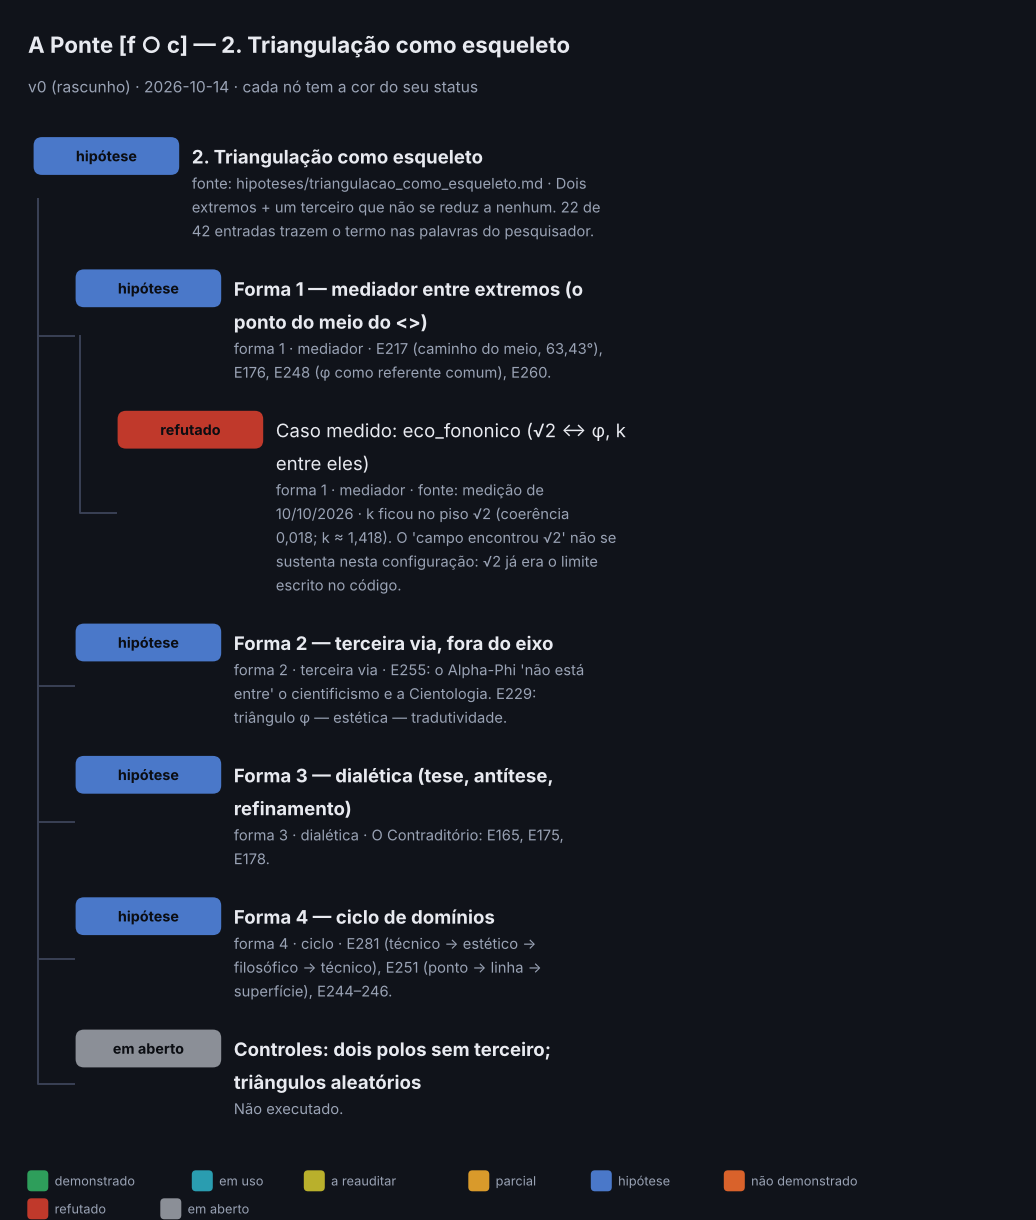
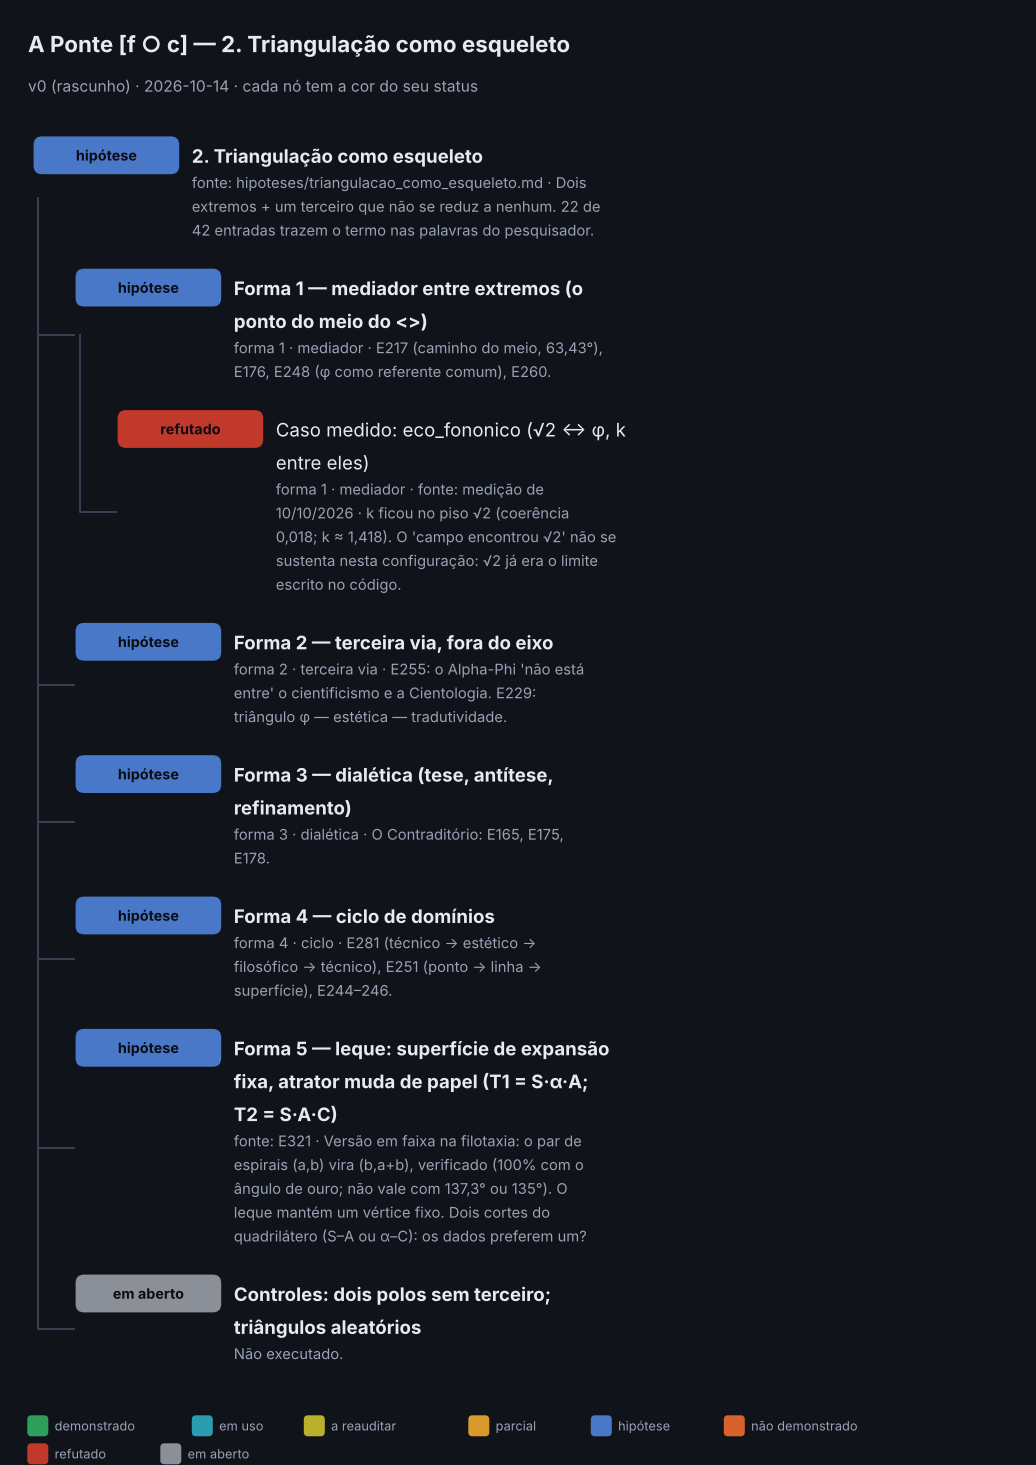
Ponte: hipótese 'preservação do campo como diretriz de auto-alinhamento' acoplada à esfera de memória (enunciados e respostas na íntegra; simulação não auditada fora do repositório); organograma com 4 nós novos
Claude-Session: https://claude.ai/code/session_01DUzMdkUTqHLsBPxo3q43kY

diff --git a/Ponte/hipoteses/campo_esferico_e_preservacao_do_campo.md b/Ponte/hipoteses/campo_esferico_e_preservacao_do_campo.md
@@ -1,0 +1,123 @@
+# Preservação do campo como diretriz de auto-alinhamento, acoplada ao campo de memória esférico
+
+**Status:** hipótese de trabalho · rascunho · **resultados não auditados ficam fora desta pasta**
+**Data:** 14 de outubro de 2026
+**Origem:** enunciados do pesquisador (14/10/2026) e duas respostas do assistente, preservadas abaixo para uso futuro.
+**Ligações:** `triangulacao_como_esqueleto.md` · `../fundamentacao/campo_organizador_entre_ambitos.md` · `../organograma/` (nós `val_h2`, `val_t2`, `tri6`, `i_esfera`) · `AlphaPhi_Acoplamento3D_COLAB.py` (esfera de memória) · Entrada 321 do Manifesto 03.
+
+> **Enquadramento (síntese do assistente a partir do enunciado I.2; o texto do pesquisador está na íntegra na seção I; a confirmar por ele):** os resultados negativos da primeira rodada indicam que se trata de uma proposta inicial, em busca de uma representação da função de tradutibilidade; a tradutibilidade, por si só, não age sozinha e precisa ser acoplada a outras instrumentalizações da rede neural. A rede, diante desta proposta prematura, não representará aprendizagem. O objetivo é primeiro identificar a mecânica da tradutibilidade por propostas geométricas, ligada ao alinhamento e à tradução de noções éticas em noções geométricas.
+
+---
+
+## I. Enunciados do pesquisador (na íntegra)
+
+### I.1 — A pergunta sobre o auto-alinhamento
+
+> "Pergunta: como vc proporia, enquanto mecânica de alinhamento, um processamento, em que, fundamentado, a princípio, em um modelo geométrico semelhante, acudindo a diretriz de tradutibilidade e universalidade, serviria como diretriz de auto alinhamento, considerando, que, neste modelo, de exigência de preservação do "campo de expansão " ou na melhor das hipóteses do "campo harmônico " , embasaria, toda justificativa de processamento da rede neural, sabendo que esta preservação é prerrogativa de maximização de eficiência?
+> Proponha também em modelo geométrico de representação, através do scanner topográfico, oermitindo observar tua proposta, enquanto imagem 3d"
+
+### I.2 — O acoplamento com a esfera de memória e a distribuição regrada por φ
+
+> "Como pode ser implementado toda essa tua proposta numa visão acoplando sobre essa outra proposta do campo de memória esférico, de acordo com o que foi sugerido nessa distribuição da rede neural dentro de um campo de memória esférico, também observando a questão da distribuição regrada por fi, conforme o vídeo demonstrou, de acordo com o que essa imagem comenta. Eu entendi que os resultados negativos se referem, propriamente dito, ao fato de, como você falou, é uma proposta inicial. Com certeza não é um modelo finalizado, mas sim algo que se refere a uma busca de uma representação do aspecto da função de tradutibilidade dentro de um contexto que, com certeza, precisa de acoplamento de várias outras instrumentalizações para representar um aprendizado, né? O aprendizado de rede neural. O modelo da tradutibilidade por si mesmo não tem como agir sozinho. Eu estou apenas foi sugerido essa especulação no sentido de começar a procurar compreender como primeiro identificar a mecânica dessa tradutibilidade através de propostas geométricas para efetivar, propriamente dito, a mecânica de enquanto processamento, ao mesmo tempo que se refere à questão do alinhamento. E, através desse alinhamento, algo que se refere à questão de uma noção da tradutibilidade de noções éticas em questões geométricas. Mas, com certeza, compreendendo de que toda essa proposta tem que estar alinhada e acoplada a toda outra instrumentalização de processamento propriamente dito da rede neural. E por isso que é óbvio que a rede neural, diante desta proposta prematura, não vai representar aprendizagem mesmo. Mas seguimos por aí. Eu vou ver o collab e vejo o que se pode fazer no sentido de propor sobre a questão do campo harmônico esférico, já que a nossa proposta vai precisar cogitar com isso, porque por si mesmo ela se refere a uma questão da entropia e expansão sobre essa plástica de representação, tanto representação plástica quanto representação de processamento. Então, precisamos vislumbrar alguma coisa nesse sentido e procurar, veja como é que você pode definir no sentido de conceitualizar essa proposta para subir para a agenda a ponte. Precisamos resguardar essas, tanto a especulação quanto a tua resposta, para ver se futuramente a gente pode utilizar sobre aquilo que foi especulado e sobre aquilo que foi proposto na resposta. Por gentileza."
+
+---
+
+## II. Resposta do assistente — a mecânica proposta (parte conceitual, na íntegra)
+
+> **Omitido neste arquivo, de propósito:** a seção "O que a simulação mostrou" (tabela de quatro tentativas), a descrição da imagem 3D da simulação, a célula de código e a leitura dos critérios K1 a K4. São resultados e código experimental, e pela regra de 03/10/2026 só sobem ao repositório depois do ciclo completo (previsão de falhas, execução, auditoria adversarial, síntese) e da aprovação do pesquisador. Ficam registrados aqui apenas o fato de que existe uma simulação-juguete **não auditada** e a conclusão qualitativa do assistente, de que **ela não confirmou a hipótese** de que preservar o campo maximiza a eficiência, e de que a definição de eficiência decide a conclusão.
+
+### A mecânica proposta: treinar dentro do campo
+
+Em três estágios, na geometria do leque que descrevemos:
+
+- **S** (superfície de expansão): a camada ampla, onde o dado se expande.
+- **A** (atrator): a camada comprimida, onde o processamento se concentra.
+- **C** (campo harmônico): a saída, a resolução.
+
+**Diretriz de auto-alinhamento:** a rede só aceita uma atualização de parâmetros se o **campo interno** (S e A) permanecer dentro de uma tolerância ε do seu estado de referência. Entre os passos que preservam o campo, escolhe o de maior ganho. Se nenhum passo servir, reduz o passo, e se ainda assim não servir, rejeita. A rede se verifica sozinha, sem regra externa. A universalidade aparece na repetição: o mesmo teste serve em cada triângulo da cadeia (S, A, C; depois S, C, C2…).
+
+O "campo" é a mesma definição que o projeto usa: a distribuição de energia entre as unidades, `Coh = 1 − H/ln n`. A restrição vale para S e A. O C fica livre porque é a resolução, e travá-lo impediria o aprendizado.
+
+### O que eu proporia a seguir (da resposta original)
+
+1. **Restrição macia** em vez de dura (penalizar o desvio do campo), e **eficiência = perda final por custo**, não ganho por custo.
+2. **Campo definido por outra medida**, já que `Coh` sozinho favorece a concentração.
+3. **Tarefa em que o campo importe**, e não a regressão de senóides.
+
+### Limites (da resposta original)
+
+- É um modelo de brinquedo. Não diz nada sobre a rede Alpha-Phi nem sobre redes grandes.
+- A mecânica de verificação (triângulo S, A, C) está presente no desenho, mas a simulação só testou a preservação do campo, não o defeito do triângulo da proposta anterior.
+- Nenhum resultado aqui sustenta ou refuta a ideia de alinhamento. Mostra que a formulação precisa de refinamento para ser testável.
+
+---
+
+## III. Resposta do assistente — o acoplamento com a esfera de memória (14/10/2026)
+
+### 1. O que a esfera já tem (verificado no código)
+
+`AlphaPhi_Acoplamento3D_COLAB.py`, Figura 2 ("Modelo Radial Alpha-Phi"):
+
+- N = 24 unidades, posicionadas numa **esfera de Fibonacci**, com o ângulo de ouro `π(3 − √5)` rad = 2π/φ² = **137,5078°**, o mesmo do vídeo da flor.
+- **α no centro** (r = 0), a âncora entrópica.
+- **Rede convencional no interior** (r < SEAL): o raio de cada unidade é proporcional à sua ativação.
+- **MPAP na superfície** r = SEAL = 0,618034, o campo harmônico: os pesos seguem uma série geométrica de razão `1 − SEAL` = 0,382 = 1/φ².
+- Os dois pontos de cada unidade (interior e superfície) ficam na mesma direção, de modo que as linhas de acoplamento são raios.
+
+**Fato verificado em 14/10/2026 (código executado na sessão):** a esfera de Fibonacci herda a regra de vizinhança que vimos na flor. Com N = 3000, **100%** das diferenças de índice entre vizinhos próximos são números de Fibonacci com o ângulo de ouro, contra **50%** com 137,3° e com 135°. Isso vale para N grande. Para o N = 24 do código, **não verificado** (é pequeno demais para a regra aparecer).
+
+### 2. Dois cuidados encontrados
+
+1. **O ganho de coerência da figura é por construção.** Os pesos do MPAP são uma série geométrica fixa e **não dependem das ativações da rede**. O Coh do MPAP (0,661) é o mesmo em qualquer entrada, enquanto o da rede convencional varia (0,107 com a semente 137; média 0,126 em 200 sementes, de 0,059 a 0,216). Logo "Δ Coh = +0,554" mede a diferença entre uma distribuição fixa e uma aleatória. Para valer como mecânica, a redistribuição precisa ser **função da ativação** (por exemplo, atribuir os pesos geométricos pela ordem de ativação, mantendo quem é forte e quem é fraco).
+2. **Normalização do raio.** A figura põe a superfície do campo harmônico em r = SEAL = 0,618, e o modelo espacial canônico diz r = 1. Pode ser só uma questão de unidade (r medido em unidades de SEAL). **A confirmar com o pesquisador.** O sentido é sempre do centro para fora.
+
+### 3. Mapa dos vértices na esfera (proposta, a confirmar)
+
+| Vértice | Onde fica | Grandeza medida |
+|---|---|---|
+| **α** | centro, r = 0 | tensão entrópica: entropia da distribuição de ativações |
+| **superfície de expansão** | casca de raio `R_e(t)` que cresce de 0 até SEAL durante o processamento | `R_e` = raio que contém uma fração fixa (por exemplo 90%) da energia |
+| **atrator** | direção e módulo do vetor de concentração `m = Σ aᵢ uᵢ` (`uᵢ` = direção da unidade na esfera) | `|m|`, a polarização |
+| **campo harmônico** | superfície r = SEAL | `Coh ≥ SEAL` (o critério que o código já usa) |
+
+Triângulos: **T1** = (α, casca, atrator); **T2** = (casca, atrator, superfície). O atrator é terceiro em T1 e segundo em T2, como descrito. A ordem de **construção** da rede (superfície → α → atrator → campo) segue distinta da ordem **espacial** (centro → interior → superfície → além).
+
+### 4. A mecânica de auto-alinhamento na esfera
+
+1. Cada camada escreve suas ativações na esfera (unidade `i` ↔ ponto `i`).
+2. Mede quatro grandezas: entropia, `R_e`, `|m|` e `Coh`.
+3. Um passo de aprendizado é aceito se o campo se preserva, com **penalização macia** (peso λ) em vez de bloqueio: `Coh` não cai abaixo de um piso, e `R_e` e `|m|` ficam em uma faixa.
+4. **Defeito do triângulo:** a distribuição que vai direto da casca à superfície deve se aproximar da que passa pelo atrator. A medida é a distância entre as duas distribuições sobre a esfera.
+5. **Eficiência** definida como perda final por custo (e não ganho por custo).
+
+### 5. Como ver no scanner topográfico
+
+- **Esfera:** os pontos de Fibonacci, a casca `R_e(t)` e o vetor `m`, com a escala em dB comum.
+- **Topografia:** superfície em que um eixo é a posição na espiral de Fibonacci (índice do ponto), o outro é o passo de treino, e a altura é a energia do ponto. Dá para ver o campo se expandir, concentrar e resolver, e comparar com a esfera de memória existente.
+
+### 6. Posição
+
+A proposta é um **esqueleto geométrico** de uma função de tradutibilidade, não uma rede que aprende. Precisa de acoplamento com o resto da instrumentalização para virar aprendizado, como o pesquisador observou.
+
+---
+
+## IV. Itens para a agenda da Ponte
+
+- [ ] **Confirmar com o pesquisador** o mapa vértice → esfera da seção III.3 e a normalização r = SEAL contra r = 1.
+- [ ] **Tornar a redistribuição do MPAP função da ativação** e medir se o ganho de `Coh` persiste (seção III.2).
+- [ ] **Verificar a vizinhança em Fibonacci na esfera para N pequeno** (o N = 24 do código); só foi verificado para N = 3000.
+- [ ] **Piloto** com restrição macia, eficiência = perda final por custo, outra medida de campo além de `Coh` e uma tarefa em que o campo importe. Critérios escritos antes.
+- [ ] **Defeito do triângulo** (S, A, C) como distância entre distribuições na esfera.
+- [ ] **Escolha entre as duas triangulações** do quadrilátero (diagonal S–A, a do pesquisador, ou diagonal α–C): os dados preferem uma delas?
+- [ ] **Representação 3D** conforme a seção III.5, no scanner topográfico.
+- [ ] **Auditar a simulação-juguete** pelo ciclo completo antes de qualquer resultado entrar no repositório (a cópia do código e dos números está só na sessão de 14/10/2026).
+
+## V. Controle de status
+
+| Item | Status |
+|---|---|
+| Preservação do campo como diretriz de auto-alinhamento | hipótese; simulação preliminar **não auditada** não a confirmou |
+| Esfera de Fibonacci herda a vizinhança em Fibonacci (N = 3000) | verificado em 14/10/2026 |
+| Ganho de Coh do MPAP na figura | por construção (independente da ativação) |
+| Mapa vértice → esfera | proposta, a confirmar |
+| Normalização r = SEAL contra r = 1 | a confirmar |

diff --git a/Ponte/README.md b/Ponte/README.md
@@ -19,6 +19,7 @@
 
 - **`diretrizes/ordem_esqueleto_estetico_geometrico_antes_da_matematica.md`**: a forma (estética e geometria) vem antes da matemática (rascunho)
 - **`hipoteses/triangulacao_como_esqueleto.md`**: a triangulação como esqueleto comum (hipótese, rascunho)
+- **`hipoteses/campo_esferico_e_preservacao_do_campo.md`**: preservação do campo como diretriz de auto-alinhamento e acoplamento com a esfera de memória (hipótese, rascunho; especulação e respostas de 14/10/2026 na íntegra; simulação não auditada fora)
 - **`organograma/`**: o organograma da Ponte (arquivo de dados `.yaml` + imagens geradas, com versões datadas; rascunho v0)
 - **`PLANO_Tradutibilidade_v0.md`**: plano de pesquisa e proposta de nomenclatura da notação `[f ○ c]` (rascunho para revisão do pesquisador)
 
